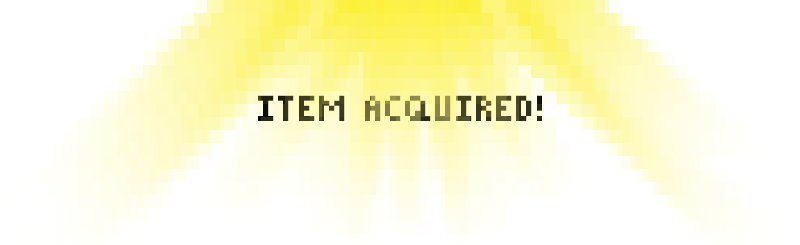
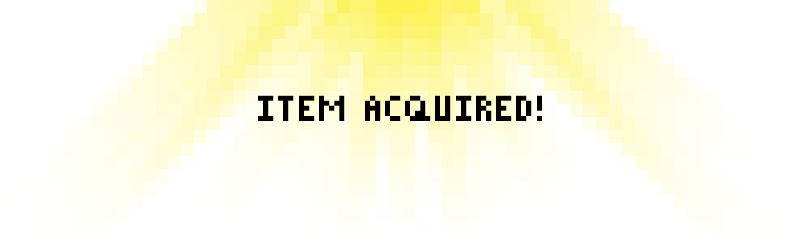
Finished NoobBoss. Added item acquired screen

Changed region(s): [[0.1875, 0.0, 0.8125, 0.6857], [0.1875, 0.6857, 0.2188, 0.7429]]

diff --git a/panic/index.js b/panic/index.js
@@ -32,8 +32,7 @@ var b2Bullets;
 var itemChest = null;
 var getPreviousPlayerPos = false;
 var petDirection = "left";
-var itemsArray = [0, 1];
-var itemChosen = -1;
+
 var moveItem = true;
 var spawnOne = false;
 var playerMovementSpeed = 4;
@@ -49,24 +48,18 @@ var tempSpeedX;
 var tempSpeedY;
 var noobMinions = [];
 var minion = null;
+var noobPet = null;
 
-function circlePath(){
-	circle.centerX = noobBoss.x + noobBoss.width/2;
-	circle.centerY = noobBoss.y + noobBoss.height/2;
+function circlePath(following){
+	circle.centerX = following.x + following.width/2;
+	circle.centerY = following.y + following.height/2;
 	spinny.x = circle.centerX + Math.cos(circle.angle) * circle.radius;
 	spinny.y = circle.centerY + Math.sin(circle.angle) * circle.radius;
-	circle.angle += 0.1;
+	circle.angle += ball.speed;
 }
-// function circlePathTrack(tracking, tracker){
-	
-// 	tempSpeedX = tracking.speedX+tracker.speedX;
-// 	tempSpeedY = tracking.speedY+tracker.speedY;
-// 	tracker.speedX = tempSpeedX;
-// 	tracker.speedY = tempSpeedY;
 
-// }
 var circle = {centerX:250, centerY:250, radius: 200, angle:0}
-var ball = {x:0, y:0};
+var ball = {x:0, y:0, speed:0.1};
 
 function startGame() {
 
@@ -108,9 +101,13 @@ function setLevel(){
        createEnemy(650, 300, 650, 500);
        level += 1;
        supullets = [];
-       bossHealth = new component2(494, 3, "green", 150, 450, "a");
+			 bossHealth = new component2(494, 3, "green", 150, 450, "a");
+
+
        break;
-    case 1:
+		case 1:
+			immunityFrame.frame = 0;
+			immunityFrame2.frame = 0;
        supullets = [];
        removeFromAll(portal);
        removeFromAll(itemChest);
@@ -130,11 +127,6 @@ function setLevel(){
             level += 1;
           })
        })
-
-
-
-
-
         break;
   }
 }
@@ -149,6 +141,8 @@ function correspondItem(){
 	}
 }
 var itemIndex;
+var itemsArray = [0, 1];
+var itemChosen = -1;
 function spawnItems(){
 	if(!spawnOne){
       portal = new component(90, 127.5, "assets/Door (Closed).png", 950, 400, "image");
@@ -157,9 +151,12 @@ function spawnItems(){
       player.y = 400;
       player.speedX = 0;
 			player.speedY = 0;
-			itemIndex = Math.floor(
-				Math.round(Math.random()*itemsArray.length - itemsArray.length > 2 ? 1 : 0)
-			)
+			itemIndex = Math.floor((Math.random()*itemsArray.length))
+			itemAcquired();
+			$("#itemScreen").fadeIn(1000).delay(4000).fadeOut(1000, function(){
+				$("#itemScreen").remove();
+			});
+
 		itemChosen = itemsArray[itemIndex];
 		itemsArray.splice(itemIndex, 1)
 		switch(itemChosen){
@@ -268,6 +265,7 @@ var boss2IsAlive = true;
 var moveActive = true;
 var atkTime = 0;
 var immunityFrame = {frames:0};
+var immunityFrame2 = {frames:0};
 
 function immunity(numOfFrames, frameVar){
 	frameVar.frames+=1;
@@ -337,27 +335,31 @@ function dontfuckingwalkonchests(){
 	}
 }
 }
+var ragePause = 0;
 function boss2Behavior(){
+	collisionDamage(boss2,player, immunityFrame);
+
 	if(boss2.health <= 0){
 		boss2.image.src = "assets/Boss 2 (Medicated Mushroom).png"
 		boss2.width = 180;
 		boss2.height = 207;
 		boss2.x = 750-boss2.width/2;
-		boss2.y = 400-boss2.height;
+		boss2.y = 400-boss2.height/2;
 		boss2.speedX = 0;
 		boss2.speedY = 0;
 		boss2IsAlive = false;
 		timeUntilGone +=1;
 		Boss2Action = 0;
 		sprayBulletsArray = [];
-		if(timeUntilGone >= 170){
+
+		if(timeUntilGone >= 200){
 			index = allGameElements.indexOf(boss2);
 			if (index > -1) {
 			allGameElements.splice(index, 1);
 			}
 		}
 		if(timeUntilGone <= 450){
-			scrollWrapper(265, 80);
+			scrollWrapper(265, 100);
 			player.speedX = 0;
 			player.speedY = 0;
 		}
@@ -378,7 +380,7 @@ function boss2Behavior(){
 			created = true;
 		}
 	}
-	collisionDamage(boss2,player);
+
 	if(boss2IsAlive){
 		bulletsDamage(player, sprayBulletsArray, 1);
 		if(player.Bitem){
@@ -453,7 +455,12 @@ function boss2Behavior(){
 			boss2.speedY = 0;
 			centerOnce = true;
 		}
-		jumpRage(boss2);
+		if(ragePause > 200){
+			jumpRage(boss2);
+		}
+		else{
+			ragePause+=1;
+		}
 	}
 }
 var jumpSrcs = ["assets/Earth Fragment 01.png","assets/Earth Fragment 02.png","assets/Earth Fragment 03.png","assets/Earth Fragment 04.png"];
@@ -559,7 +566,7 @@ function jumpRage(subject){
 					subject.speedY = 0;
 					subject.y = tempBossY;
 					jumpSetup = false;
-					sprayNumber = Math.floor(Math.random()*60)+40;
+					sprayNumber = Math.floor(Math.random()*20)+40;
 					if(sprayOnce){
 						for(i = 0; i<sprayNumber; i++){
 							sBX = roundTo(Math.random()*7, 2)+3;
@@ -626,16 +633,27 @@ var stopSetting = false;
 function boss2PetBehavior(operation){
 	if(boss2Pet!== null){
 		if(operation == "left"){
-			boss2Pet.x = player.x-player.width;
+			boss2Pet.x = player.x-player.width/2-20;
 			boss2Pet.y = player.y+(player.height/2);
 	}
 		else if(operation == "right"){
-			boss2Pet.x = player.x+player.width;
+			boss2Pet.x = player.x+player.width/2+20;
 			boss2Pet.y = player.y+(player.height/2);
 		}
 	}
 }
-
+function noobPetBehavior(operation){
+	if(noobPet!== null){
+		if(operation == "left"){
+			noobPet.x = player.x-player.width/2-40;
+			noobPet.y = player.y+(player.height/2);
+	}
+		else if(operation == "right"){
+			noobPet.x = player.x+player.width/2+40;
+			noobPet.y = player.y+(player.height/2);
+		}
+	}
+}
 function disappearWhenTouchingWall(bulletsArray){
   for(i = 0; i<bulletsArray.length; i++)
   {
@@ -1042,12 +1060,12 @@ function shoot(){
     supullet = new component(50, 50, "assets/Supreme Ammo.png", player.x+(player.width/2), player.y, "image");
 	if(player.Bitem == true){
 		supullet.image.src = "assets/Subreme Ammo.png"
-	  B = new component(30, 30, "assets/Subreme Powerup Pickup.png", player.x+(player.width/2), player.y+30, "image")
+	  B = new component(20, 20, "assets/Subreme Powerup Pickup.png", player.x+(player.width/2), player.y+30, "image")
     supullets.push(B);
     setSpeedArray.push(B);
   }
   if(player.robot == true){
-    notes = new component(10, 10, "blue", player.x+(player.width/2), player.y-15, "a")
+    notes = new component(20, 28, "assets/Robo Boy Bullet.png", player.x+(player.width/2), player.y-15, "image")
     supullets.push(notes);
     setSpeedArray.push(notes);
   }
@@ -1057,6 +1075,11 @@ function shoot(){
 		b2Bullets = new component(10, 10, "assets/Earth Fragment 01.png", boss2Pet.x+10, boss2Pet.y, "image");
 		 supullets.push(b2Bullets);
      setSpeedArray.push(b2Bullets);
+	}
+	if(noobPet!==null){
+		npBullets = new component(10, 10, "red", noobPet.x, noobPet.y+10);
+		 supullets.push(npBullets);
+     setSpeedArray.push(npBullets);
 	}
 
 }
@@ -1220,11 +1243,12 @@ var index;
 function updateEverything(){
 
 	for(var x = 0; x< allGameElements.length; x++){
-
         allGameElements[x].newPos();
         allGameElements[x].update();
     }
 	boss2PetBehavior(petDirection);
+	noobPetBehavior(petDirection);
+
     disappearWhenTouchingWall(enemyBullets)
     for (i = 0; i < enemyBullets.length; i += 1) {
         enemyBullets[i].newPos();
@@ -1256,7 +1280,6 @@ function updateEverything(){
         sprayBulletsArray[i].update();
     }
 }
-var immunityFrame2 = {frames:0};
 
 function collisionDamage(enemyName, target, frameVar){
 	if(enemyName.crashWith(target)){
@@ -1297,31 +1320,66 @@ function spawnMinions(){
 			noobMinions.push(minion);
 		}
 } 
-noobBossAction = [0, 1];
+noobBossIsAlive = true;
 function noobBossBehavior(){
+	if(noobBossIsAlive){
+		myGameArea.frameNo += 1;
+		followPlayer(noobBoss, player, 2);
+		collisionDamage(noobBoss, player, immunityFrame);
+		collisionDamage(spinny,player, immunityFrame2);
+		bulletsDamage(noobBoss, supullets, (player.Bitem) ? 1.3:1)
+		bulletsDamage(spinny, supullets, 0);
+		noobBoss.health <= 0 ? noobBossIsAlive = false: noobBossIsAlive = true;
+		if(minion!== null){
+			noobMinionBehavior()
+		}
+		if(everyinterval(800)){
+			spawnMinions();
+		}
+	}
+	else{
+		timeUntilGone += 1;
+		noobBoss.x = 750-noobBoss.width/2;
+		noobBoss.y = 400-noobBoss.height/2;
+		if(timeUntilGone >= 200){
 
-	myGameArea.frameNo += 1;
-	followPlayer(noobBoss, player, 2);
-	collisionDamage(noobBoss, player, immunityFrame);
-	collisionDamage(spinny,player, immunityFrame2);
-	bulletsDamage(noobBoss, supullets, player.Bitem ? 1.3:1)
-	bulletsDamage(spinny, supullets, 0);
-	if(minion!== null){
-		noobMinionBehavior()
+			index = allGameElements.indexOf(noobBoss);
+			if (index > -1) {
+			allGameElements.splice(index, 1);
+			}
+
 	}
-	if(everyinterval(800)){
-		spawnMinions();
+		if(timeUntilGone <= 450){
+			scrollWrapper(260, 100);
+			player.x = 400;
+			player.y = 300;
+		}
+		else if(timeUntilGone > 450){
+			noobPet = new component(40, 40, "assets/The Jackhammer.png", player.x-player.width, player.y+player.height, "image");
+			allGameElements.push(noobPet);
+			circle.radius = 150;
+			player.x = 400;
+			player.y = 300;
+			itemChest = new component(250, 173, "assets/Treasure Chest Closed.png", 750-125, 400-86, "image");
+			allGameElements.push(itemChest);
+      bulletsNumber+=1;
+      spawnOne = false;
+			noobBoss = null;
+		}
+		if(!created){
+			createGif(250, 250);
+			created = true;
+		}
 	}
-}
+	}
+
 var fps = 50;
 function updateGameArea() {
 	        requestAnimationFrame(updateGameArea);
 	        myGameArea.clear();
 
-					circlePath();
 
 
-					noobBossBehavior();
 					if(player.x >= 400){
 	        scrollX = player.x - 400;
 	      }
@@ -1333,8 +1391,17 @@ function updateGameArea() {
 	      }
 	      else{
 	        scrollY = 0;
-	      }
-	     scrollWrapper(scrollX, scrollY);
+				}
+
+			 scrollWrapper(scrollX, scrollY);
+				if(noobPet!==null){
+					circlePath(noobPet)
+				}
+			 if(noobBoss!==null){
+				circlePath(noobBoss);
+
+				noobBossBehavior();
+				}
 	     updateEverything();
 	     dontfuckingwalkthroughwalls();
 	  	 portalBehavior();

diff --git a/panic/popUps.js b/panic/popUps.js
@@ -1,5 +1,6 @@
 var popup;
 var close;
+var ia;
 function newPopUp(source){
   document.getElementById("setting").src = source;
 }
@@ -19,3 +20,14 @@ function createPopUp(source, alt){
     document.getElementById("popUpParent").appendChild(close);
 }
 
+function itemAcquired(){
+	ia = document.createElement("IMG");
+  ia.setAttribute("src", "assets/itemAcquired.png");
+  ia.setAttribute("width", 800);
+  ia.setAttribute("height", 245);
+  ia.setAttribute("alt", " ");
+  ia.setAttribute("class", "scenes");
+  ia.setAttribute("id", "itemScreen");
+  document.getElementById("popUpParent").appendChild(ia);
+  $("#itemScreen").hide();
+}

diff --git a/panic/index.css b/panic/index.css
@@ -55,3 +55,4 @@
 	from {opacity:1;}
     to {opacity:0;}
 }
+
